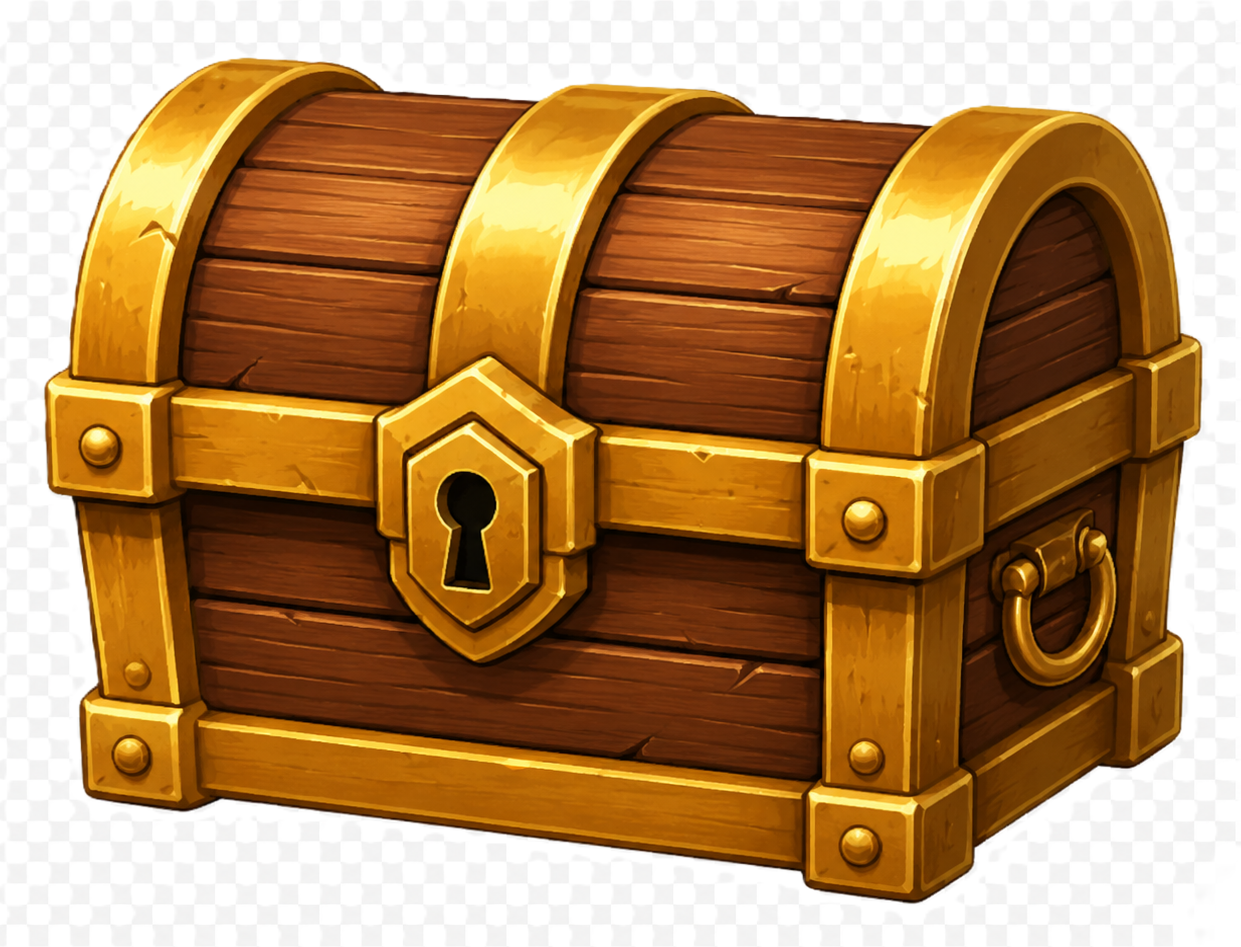
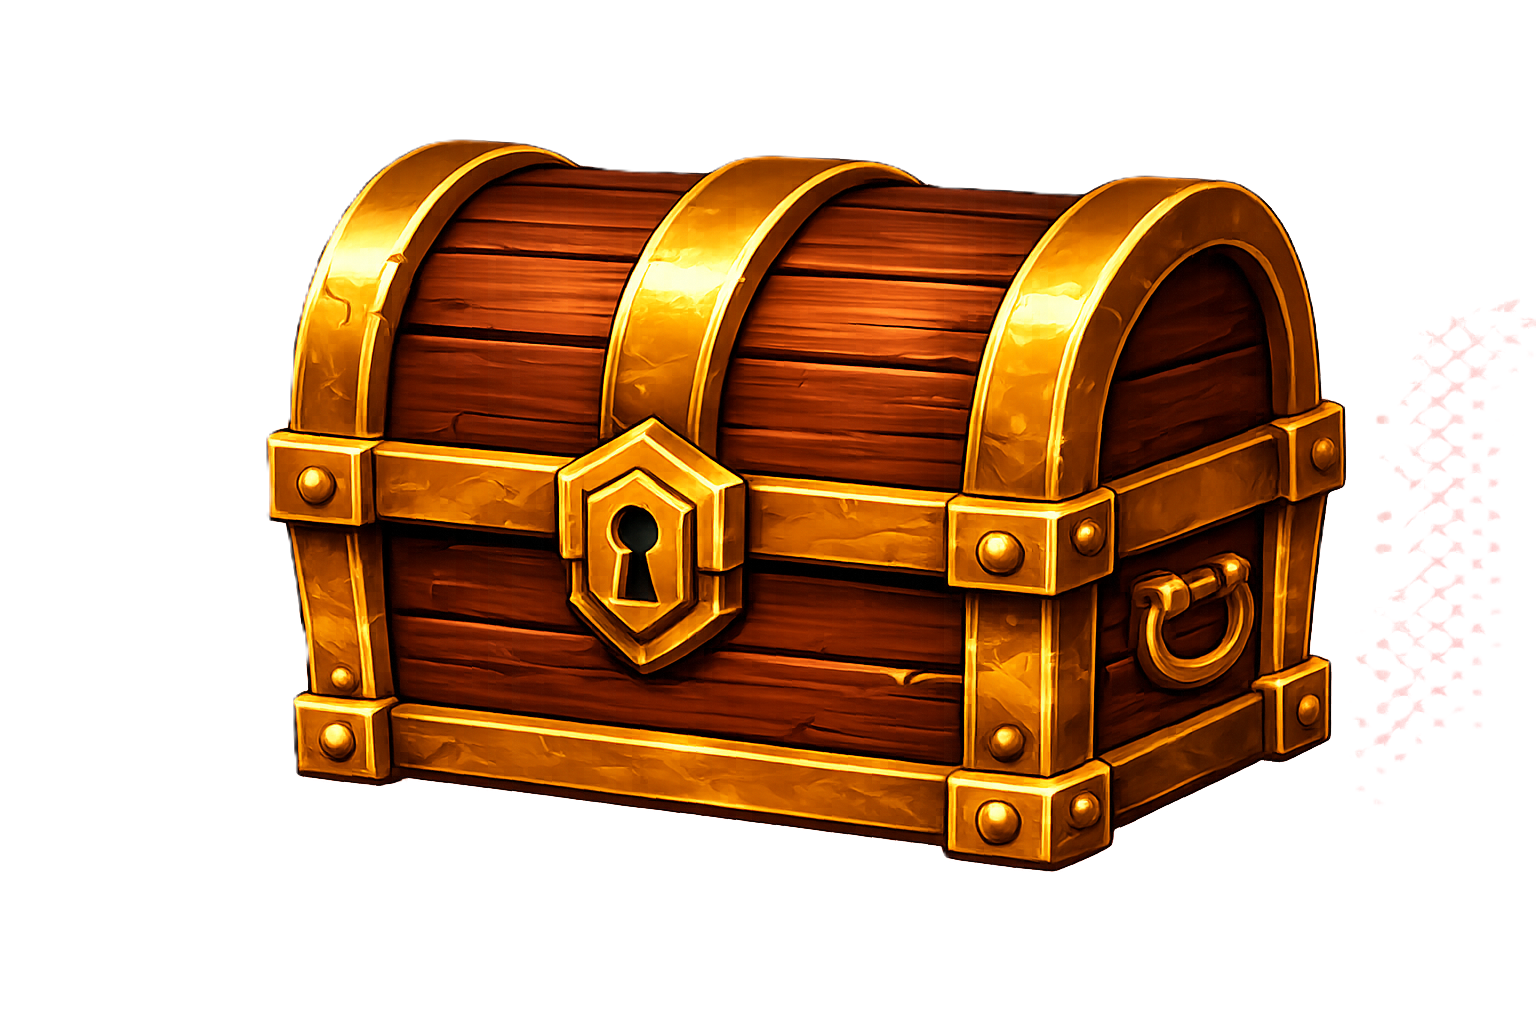
ok

diff --git a/art/monsters/monsterRig.js b/art/monsters/monsterRig.js
@@ -40,6 +40,7 @@ export function ShadeBody({ gradId, palette, highlight, shadow, children }) {
 
 /** Cartoon arm: shoulder → elbow → round claw/hand */
 export function RigArm({ sx, sy, ex, ey, hx, hy, stroke, fill, sw = DEFAULT_ST - 2, claw = false }) {
+  const isBattle = useContext(BattleShadingContext);
   return (
     <G>
       <Path
@@ -50,15 +51,19 @@ export function RigArm({ sx, sy, ex, ey, hx, hy, stroke, fill, sw = DEFAULT_ST -
         strokeLinecap="round"
         strokeLinejoin="round"
       />
-      <Circle cx={hx} cy={hy} r={claw ? 11 : 9} fill={fill} stroke={stroke} strokeWidth={sw} />
-      {claw ? (
-        <Path
-          d={`M ${hx - 6} ${hy - 4} L ${hx} ${hy - 10} L ${hx + 6} ${hy - 4}`}
-          fill={fill}
-          stroke={stroke}
-          strokeWidth={2}
-          strokeLinejoin="round"
-        />
+      {!isBattle ? (
+        <>
+          <Circle cx={hx} cy={hy} r={claw ? 11 : 9} fill={fill} stroke={stroke} strokeWidth={sw} />
+          {claw ? (
+            <Path
+              d={`M ${hx - 6} ${hy - 4} L ${hx} ${hy - 10} L ${hx + 6} ${hy - 4}`}
+              fill={fill}
+              stroke={stroke}
+              strokeWidth={2}
+              strokeLinejoin="round"
+            />
+          ) : null}
+        </>
       ) : null}
     </G>
   );
@@ -86,12 +91,34 @@ export function RigFootPad(props) {
   return <Ellipse {...props} />;
 }
 
+/** Decorative ellipse — hidden in battle (large light shoe/belly ovals read as white rings). */
+export function RigDecorEllipse(props) {
+  const isBattle = useContext(BattleShadingContext);
+  if (isBattle) return null;
+  return <Ellipse {...props} />;
+}
+
+/** Decorative circle — hidden in battle. */
+export function RigDecorCircle(props) {
+  const isBattle = useContext(BattleShadingContext);
+  if (isBattle) return null;
+  return <Circle {...props} />;
+}
+
+/** Decorative path / gleam stroke — hidden in battle. */
+export function RigDecorPath(props) {
+  const isBattle = useContext(BattleShadingContext);
+  if (isBattle) return null;
+  return <Path {...props} />;
+}
+
 /** Mech panel with bolt */
 export function RigPanel({ x, y, w, h, rx = 6, fill, stroke, sw = DEFAULT_ST - 1, bolts = true }) {
+  const isBattle = useContext(BattleShadingContext);
   return (
     <G>
       <Rect x={x} y={y} width={w} height={h} rx={rx} fill={fill} stroke={stroke} strokeWidth={sw} />
-      {bolts ? (
+      {bolts && !isBattle ? (
         <>
           <Circle cx={x + 8} cy={y + 8} r={2.5} fill="#dfe6e9" stroke={stroke} strokeWidth={1} />
           <Circle cx={x + w - 8} cy={y + 8} r={2.5} fill="#dfe6e9" stroke={stroke} strokeWidth={1} />
@@ -143,6 +170,7 @@ export function RigFace({
   brawler = false,
 }) {
   const isBattle = useContext(BattleShadingContext);
+  const sclera = isBattle ? '#c8ced8' : eyeWhite;
   const eyeL = cx - 20 * scale;
   const eyeR = cx + 20 * scale;
   const eyeY = cy - 5 * scale;
@@ -165,8 +193,8 @@ export function RigFace({
           <LayerSubsurface cx={eyeR + 14} cy={eyeY + 10} r={7} color="#ff9eb5" opacity={0.45} />
         </>
       ) : null}
-      <Circle cx={eyeL} cy={eyeY} r={r} fill={eyeWhite} stroke={stroke} strokeWidth={sw - 1} />
-      <Circle cx={eyeR} cy={eyeY} r={r} fill={eyeWhite} stroke={stroke} strokeWidth={sw - 1} />
+      <Circle cx={eyeL} cy={eyeY} r={r} fill={sclera} stroke={stroke} strokeWidth={sw - 1} />
+      <Circle cx={eyeR} cy={eyeY} r={r} fill={sclera} stroke={stroke} strokeWidth={sw - 1} />
       <Circle cx={eyeL + brow} cy={eyeY + 2} r={pr} fill={pupil} />
       <Circle cx={eyeR - brow} cy={eyeY + 2} r={pr} fill={pupil} />
       {!isBattle ? (
@@ -194,7 +222,7 @@ export function RigFace({
           strokeLinecap="round"
         />
       )}
-      {brawler && mood !== 'happy' ? (
+      {brawler && mood !== 'happy' && !isBattle ? (
         <Path
           d={`M ${cx - 6} ${mouthY + 2} L ${cx - 2} ${mouthY + 6} L ${cx + 2} ${mouthY + 2}`}
           fill="#fff"

diff --git a/utils/battleLayout.js b/utils/battleLayout.js
@@ -2,6 +2,13 @@ import { BREAKPOINT_MOBILE } from './responsive';
 
 /** Symmetrical arcade battle layout — mirrored left/right fighters. */
 
+/** Extra % from top of arena for battle comment / turn badge text */
+export const BATTLE_COMMENT_TOP_SHIFT_PCT = 10;
+
+function battleCommentTopPct(base) {
+  return `${base + BATTLE_COMMENT_TOP_SHIFT_PCT}%`;
+}
+
 /** All battle-screen monster sprites (RN arena + Phaser lab). */
 export const BATTLE_MONSTER_SIZE_MULT = 0.7;
 
@@ -43,23 +50,20 @@ export function getMonsterPlacement(stageKind, layout, screenWidth = 0) {
   const mobile = layout.compactHud;
 
   /** Fraction of arena width reserved as empty margin on each side (normal fights = wider). */
+  const normalInset = phone ? 0.1 : mobile ? 0.16 : 0.22;
   const insetFrac = boss
     ? phone
       ? 0.07
       : mobile
         ? 0.1
         : 0.15
-    : phone
-      ? 0.1
-      : mobile
-        ? 0.16
-        : 0.22;
+    : normalInset * 1.15;
 
   const insetPx = w > 0 ? Math.round(w * insetFrac) : 0;
 
   return {
-    p1Bottom: boss ? layout.monsterBottomPlayerBoss : layout.monsterBottom,
-    p2Bottom: boss ? layout.monsterBottomEnemyBoss : layout.monsterBottom,
+    p1Bottom: boss ? layout.monsterBottomBoss : layout.monsterBottom,
+    p2Bottom: boss ? layout.monsterBottomBoss : layout.monsterBottom,
     /** @deprecated use p1Left / p2Right when screenWidth provided */
     sideInset: layout.monsterSideInset,
     p1Left: insetPx,
@@ -124,10 +128,8 @@ export function getStrictLayout(width, height) {
     diceInactive: mobile ? 48 : 64,
     /** Shared ground line (% from bottom of arena) */
     monsterBottom: phone ? '15%' : mobile ? '13%' : '10%',
-    /** Boss: shrunk player reads low — nudge up slightly */
-    monsterBottomPlayerBoss: phone ? '17%' : mobile ? '15%' : '12%',
-    /** Boss: enlarged enemy reads high — nudge down to match ground */
-    monsterBottomEnemyBoss: phone ? '11%' : mobile ? '9%' : '6%',
+    /** Mini boss / boss — same ground line for player and enemy */
+    monsterBottomBoss: phone ? '13%' : mobile ? '11%' : '9%',
     /** Horizontal inset from arena edges (higher = fighters farther apart) */
     monsterSideInset: phone ? '6%' : mobile ? '9%' : '14%',
     statsTop: phone ? '10.5%' : mobile ? '9.5%' : '8.5%',
@@ -135,13 +137,13 @@ export function getStrictLayout(width, height) {
     stageBadgeTop: phone ? '6.2%' : mobile ? '5.8%' : '5.6%',
     stageBadgeW: phone ? 164 : mobile ? 184 : 220,
     stageBadgeMinH: phone ? 34 : mobile ? 36 : 40,
-    turnTop: phone ? '27%' : mobile ? '28%' : '29%',
-    combatTurnTop: phone ? '22%' : mobile ? '23%' : '24%',
+    turnTop: battleCommentTopPct(phone ? 27 : mobile ? 28 : 29),
+    combatTurnTop: battleCommentTopPct(phone ? 22 : mobile ? 23 : 24),
     monsterLaneY: 0.48,
     compactHud: mobile,
     phone,
-    /** Battle comment — ~25% from top (between top and screen center) */
-    commentTop: Math.round(height * 0.25),
+    /** Battle comment — ~35% from top (between top and screen center) */
+    commentTop: Math.round(height * 0.35),
     commentLeft: Math.round(width * 0.05),
     commentW: Math.round(width * 0.9),
   };

diff --git a/components/RpgBattleArena.js b/components/RpgBattleArena.js
@@ -7,11 +7,13 @@ import {
   enemyBossDisplayScale,
   getMonsterPlacement,
   getStrictLayout,
+  isBossEncounter,
   playerBossEncounterScale,
 } from '../utils/battleLayout';
 import { ELEMENT_UI } from '../utils/elements';
 import { hasStatus, STATUS_LABELS } from '../utils/statusEffects';
 import { ART } from '../utils/artDirection';
+import { FONT_BATTLE_COMBAT, FONT_BATTLE_COMMENT } from '../utils/gameFonts';
 import { BATTLE } from '../utils/gameTheme';
 import { GAME_ASSETS } from '../utils/gameAssetPaths';
 
@@ -154,6 +156,9 @@ export default function RpgBattleArena({
   const placement = useMemo(() => getMonsterPlacement(stageKind, L, width), [stageKind, L, width]);
   const p1MonsterSize = Math.round(L.p1Monster * playerBossEncounterScale(stageKind));
   const p2MonsterSize = Math.round(L.p2Monster * enemyBossDisplayScale(stageKind));
+  const bossFight = isBossEncounter(stageKind);
+  /** Pull smaller player sprite down so feet meet boss ground line */
+  const p1BossFeetNudge = bossFight ? Math.round((p2MonsterSize - p1MonsterSize) * 0.14) : 0;
 
   useEffect(() => {
     if (typeof __DEV__ !== 'undefined' && __DEV__) {
@@ -275,6 +280,7 @@ export default function RpgBattleArena({
           {
             left: placement.p1Left,
             bottom: placement.p1Bottom,
+            marginBottom: p1BossFeetNudge ? -p1BossFeetNudge : 0,
             opacity: p1Opacity,
             transform: [{ scale: p1Scale }],
           },
@@ -764,24 +770,28 @@ const styles = StyleSheet.create({
     zIndex: 22,
   },
   turnBadgeTxt: {
-    fontWeight: '900',
-    fontSize: 17,
-    lineHeight: 23,
-    color: '#ffffff',
+    fontFamily: FONT_BATTLE_COMMENT,
+    fontWeight: '400',
+    fontSize: 18,
+    lineHeight: 24,
+    color: '#fff9f0',
     textAlign: 'center',
+    letterSpacing: 0.6,
     textShadowColor: 'rgba(0, 0, 0, 0.88)',
-    textShadowOffset: { width: 0, height: 1 },
-    textShadowRadius: 8,
+    textShadowOffset: { width: 0, height: 2 },
+    textShadowRadius: 6,
     width: '100%',
   },
   turnBadgeTxtCombat: {
-    fontSize: 36,
-    lineHeight: 42,
+    fontFamily: FONT_BATTLE_COMBAT,
+    fontWeight: '400',
+    fontSize: 40,
+    lineHeight: 46,
     color: '#FFD700',
-    letterSpacing: 1,
-    textShadowColor: 'rgba(120, 80, 0, 0.95)',
-    textShadowOffset: { width: 0, height: 2 },
-    textShadowRadius: 10,
+    letterSpacing: 1.5,
+    textShadowColor: 'rgba(80, 40, 0, 0.95)',
+    textShadowOffset: { width: 0, height: 3 },
+    textShadowRadius: 8,
   },
   roundBadge: {
     position: 'absolute',

diff --git a/components/monsters/bodies/BodyWaterBottle.js b/components/monsters/bodies/BodyWaterBottle.js
@@ -1,6 +1,6 @@
 import React from 'react';
 import { Ellipse, G, Path, Rect } from 'react-native-svg';
-import { DEFAULT_ST, RigArm, RigFace, RigFootPad, RigLeg, RigTail, ShadeBody } from '../../../art/monsters/monsterRig';
+import { DEFAULT_ST, RigArm, RigDecorPath, RigFace, RigFootPad, RigLeg, RigTail, ShadeBody } from '../../../art/monsters/monsterRig';
 import { resolvePalette } from './shared';
 
 /** Water Bottle Beast — bulging bottle torso, slosh belly */
@@ -21,8 +21,8 @@ export default function BodyWaterBottle({ stroke, m, mood, eyeWhite, pupil, pale
       <Rect x={76} y={44} width={14} height={12} rx={4} fill={p.dark} stroke={stroke} strokeWidth={2} />
       <Rect x={62} y={70} width={76} height={100} rx={18} fill={`url(#${gid})`} stroke={stroke} strokeWidth={ST} />
       <Rect x={68} y={108} width={64} height={28} rx={6} fill={p.glow} opacity={0.55} />
-      <Path d="M 70 114 Q 100 122 130 114" fill="none" stroke="#fff" strokeWidth={2.5} opacity={0.55} />
-      <Path d="M 72 124 Q 100 132 128 124" fill="none" stroke="#fff" strokeWidth={2} opacity={0.4} />
+      <RigDecorPath d="M 70 114 Q 100 122 130 114" fill="none" stroke="#fff" strokeWidth={2.5} opacity={0.55} />
+      <RigDecorPath d="M 72 124 Q 100 132 128 124" fill="none" stroke="#fff" strokeWidth={2} opacity={0.4} />
       <RigArm sx={56} sy={102} ex={38} ey={120} hx={32} hy={128} stroke={stroke} fill={p.light} />
       <RigArm sx={144} sy={102} ex={162} ey={120} hx={168} hy={128} stroke={stroke} fill={p.light} />
       <RigLeg hipX={80} hipY={164} footX={74} footY={174} stroke={stroke} fill={p.accent} />

diff --git a/components/monsters/bodies/BodyCrocs.js b/components/monsters/bodies/BodyCrocs.js
@@ -1,6 +1,6 @@
 import React from 'react';
 import { Circle, Ellipse, G, Path } from 'react-native-svg';
-import { DEFAULT_ST, RigArm, RigFace, RigLeg, ShadeBody } from '../../../art/monsters/monsterRig';
+import { DEFAULT_ST, RigArm, RigDecorCircle, RigDecorEllipse, RigFace, RigLeg, ShadeBody } from '../../../art/monsters/monsterRig';
 import { resolvePalette } from './shared';
 
 /** Crocs Goblin — shoe-head alien, riverbank slick */
@@ -15,9 +15,9 @@ export default function BodyCrocs({ stroke, m, mood, eyeWhite, pupil, palette, S
         stroke={stroke}
         strokeWidth={ST}
       />
-      <Ellipse cx={100} cy={148} rx={74} ry={28} fill={p.light} stroke={stroke} strokeWidth={ST} />
+      <RigDecorEllipse cx={100} cy={148} rx={74} ry={28} fill={p.light} stroke={stroke} strokeWidth={ST} />
       {[46, 72, 100, 128, 154].map((x) => (
-        <Circle key={x} cx={x} cy={134} r={7} fill={p.glow} stroke={stroke} strokeWidth={2} />
+        <RigDecorCircle key={x} cx={x} cy={134} r={7} fill={p.glow} stroke={stroke} strokeWidth={2} />
       ))}
       <Ellipse cx={100} cy={86} rx={30} ry={34} fill={p.accent} stroke={stroke} strokeWidth={ST} />
       <Path d="M 70 60 Q 66 44 76 40 Q 86 48 80 62" fill={p.accent} stroke={stroke} strokeWidth={ST - 2} />

diff --git a/utils/gameFonts.js b/utils/gameFonts.js
@@ -1,0 +1,31 @@
+import { Platform } from 'react-native';
+
+const FONTS_LINK_ID = 'monster-fight-game-fonts';
+const GOOGLE_FONTS_URL =
+  'https://fonts.googleapis.com/css2?family=Bangers&family=Black+Ops+One&display=swap';
+
+let fontsRequested = false;
+
+/** Load Bangers + Black Ops One on web (battle callouts / HUD). */
+export function loadGameFonts() {
+  if (fontsRequested || Platform.OS !== 'web' || typeof document === 'undefined') return;
+  fontsRequested = true;
+  if (document.getElementById(FONTS_LINK_ID)) return;
+  const link = document.createElement('link');
+  link.id = FONTS_LINK_ID;
+  link.rel = 'stylesheet';
+  link.href = GOOGLE_FONTS_URL;
+  document.head.appendChild(link);
+}
+
+/** Big combat feedback (“CRITICAL!”, damage quips). */
+export const FONT_BATTLE_COMBAT = Platform.select({
+  web: 'Bangers',
+  default: undefined,
+});
+
+/** Turn hints (“Choose your move”, status lines). */
+export const FONT_BATTLE_COMMENT = Platform.select({
+  web: 'Black Ops One',
+  default: undefined,
+});

diff --git a/components/AnimatedMonster.js b/components/AnimatedMonster.js
@@ -316,8 +316,8 @@ export default function AnimatedMonster({
   });
   const glowOpacity = ragePulse.interpolate({ inputRange: [0, 1], outputRange: [0.4, 0.8] });
 
-  const padTop = Math.round(scaledSize * (battleMode ? 0.06 : 0.22));
-  const padSides = Math.round(scaledSize * (battleMode ? 0.04 : 0.14));
+  const padTop = Math.round(scaledSize * (battleMode ? 0.02 : 0.22));
+  const padSides = Math.round(scaledSize * (battleMode ? 0.02 : 0.14));
 
   return (
     <View

diff --git a/App.js b/App.js
@@ -53,6 +53,7 @@ import {
   stageTypeBanner,
 } from './utils/monsterLadder';
 import { initAudio } from './utils/audioManager';
+import { loadGameFonts } from './utils/gameFonts';
 import { pickFunnyWinTitle, winTitleForRarity } from './utils/rewards';
 import {
   activeWallet,
@@ -373,6 +374,7 @@ export default function App() {
   }, [phase]);
 
   useEffect(() => {
+    loadGameFonts();
     applyAudioSettings();
     initAudio();
     void loadSaveApiConfig();

diff --git a/components/monsters/MonsterLayerStack.js b/components/monsters/MonsterLayerStack.js
@@ -36,8 +36,8 @@ export default function MonsterLayerStack({
   const rimColor = themePalette?.glow ?? themeAura ?? ART.crit;
 
   const isBattle = !showShadow;
-  const svgH = isBattle ? size * 1.08 : size;
-  const viewBox = isBattle ? '0 -20 200 218' : '0 0 200 200';
+  const svgH = isBattle ? size * 1.02 : size;
+  const viewBox = isBattle ? '0 -18 200 206' : '0 0 200 200';
 
   return (
     <BattleShadingContext.Provider value={isBattle}>

diff --git a/components/MonsterPreview.js b/components/MonsterPreview.js
@@ -152,7 +152,7 @@ export default function MonsterPreview({
     <View
       style={{
         width: size,
-        height: size * (hideBuiltInShadow ? 1.08 : 1.06),
+        height: size * (hideBuiltInShadow ? 1.02 : 1.06),
         alignSelf: 'center',
         justifyContent: 'flex-start',
         overflow: 'visible',
